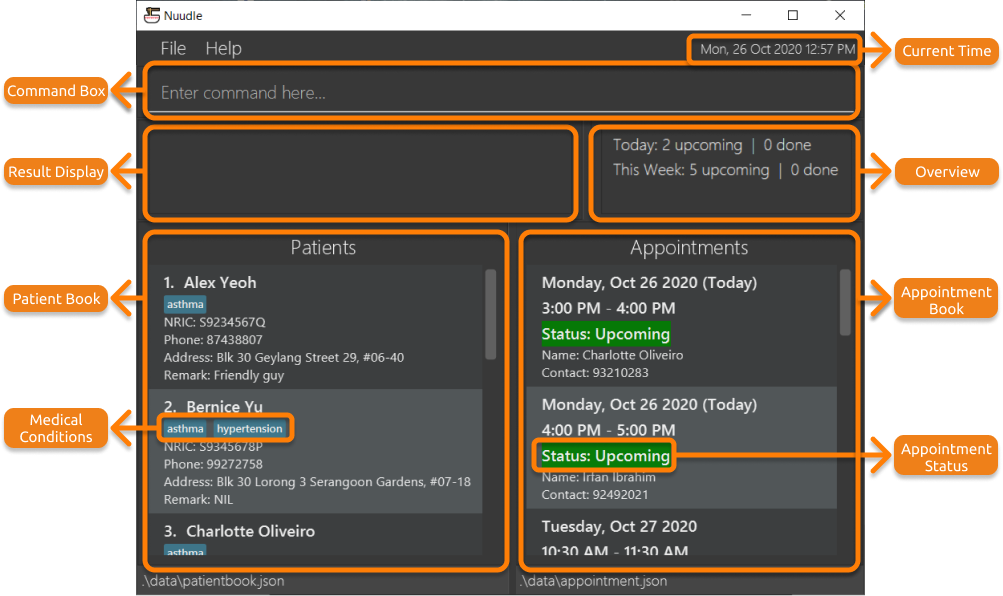
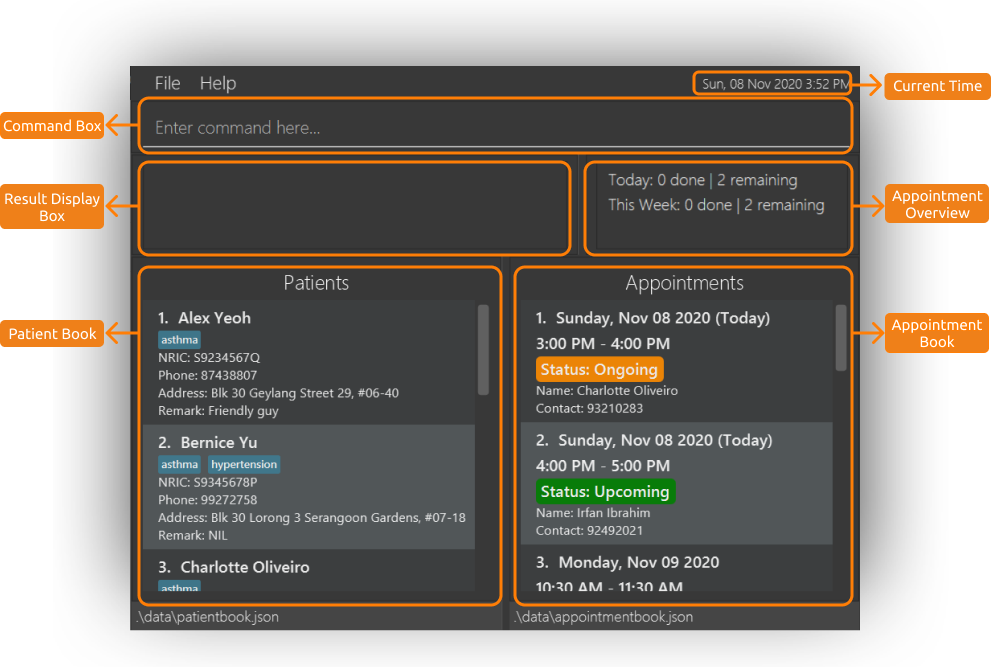
Add quick start and layout intro

diff --git a/docs/UserGuide.md b/docs/UserGuide.md
@@ -52,32 +52,89 @@ Follow these steps to get you started on Nuudle:
 
 ### Using Nuudle
 
- `interface`
+Having downloaded the Nuudle application, allow us to walk you through the layout of Nuudle.
+
+![UiMarkUp](images/UiMarkup.png)
+
+The layout of Nuudle can be divided into 2 main areas:
+1. A command execution area
+2. A main viewing area
+
+#### Executing command
+
+The command execution area consists of the **Command Box** and the **Result Display Box**.
+
+The **Command Box** is the area where you can type in your command and subsequently execute it by pressing <kbd>Enter</kbd>.
+The result from the execution will then be displayed on the **Result Display Box**.
+
+To get you started, here are some sample commands that you can try out:
+
+1. **`help`** : Shows the help window. 
+
+1. **`list`** : Lists all patients.
+
+1. **`add`**` n/John Doe i/S9730284G p/98765432 a/John street, block 123, #01-01` : Adds a patient named `John Doe` to the Patient Book.
+
+1. **`assign`**` 1 d/Tomorrow t/8.30am dur/30` : Creates an appointment for the 1st patient in the patient list for tomorrow 8.30am to 9am, assuming that the time slot is free.
+
+1. **`view`**` d/Tomorrow` : Displays all appointment happening tomorrow.
+
+1. **`cancel`**` 1` : Cancels the first appointment in the displayed appointment list.
+
+1. **`clear`** : Deletes all patients and appointments.
+
+1. **`exit`** : Exits the app.
+
+To learn more about the various commands used in Nuudle, head down to our [Commands](#commands) section.
+Alternatively, you can visit our [Command Summary](#command-summary) section to get a quick overview of Nuudle's commands.
+
+#### Viewing the data
+
+The main viewing area consists of the **Patient Book**, the **Appointment Book** and the **Appointment Overview**.
+
+* The **Patient Book** contains information about the patients stored in Nuudle. Here we take a look at an entry in the Patient Book.
+  ![PatientCard](images/PatientCard.png)
+  * The **Patient Index** is a numbering system used in the Patient Book, which allows you to easily reference the patient by using the index shown.<br>
+  Throughout the document and the application, we use the term `PATIENT_INDEX` to refer to this Patient Index.
+    
+  * The **Medical Condition** here is a tag that help nurses easily identify any identified allergy, illness and more.<br>
+  This medical condition can be added as a tag when [adding a new patient](#adding-a-patient--add) or by [editing an existing patient](#editing-a-patient--edit).
+    
+  * The **Patient Details** are neatly displayed at the bottom for you to easily check and identify a patient.
+
+
+* The **Appointment Book** contains details about the appointments created by Nuudle. Here we take a look at a single entry in the Appointment Book 
+![AppointmentCard](images/AppointmentCard.png)
+  * Similar to the Patient Index, the **Appointment Index** is a numbering system used in the Appointment Book.<br>
+  We use the term `APPT_INDEX` to refer to this Appointment Index. 
+
+  * Another noteworthy appointment detail is the **Appointment Status**. There are four status type used in Nuudle and the meaning of each status are shown in the table below
+    
+  **Appointment Status** | **Meaning**
+  :---------------:|:----------------
+  ![StatusDone](images/StatusDone.png) | A completed appointment that is marked as done using the `done` command
+  ![StatusUpcoming](images/StatusUpcoming.png) | An uncompleted appointment that will be happening in the future.
+  ![StatusOngoing](images/StatusOngoing.png) | An appointment that is currently ongoing but is still uncompleted.
+  ![StatusExpired](images/StatusExpired.png) | An appointment that has already passed but is still uncompleted.
+
+  * The **Patient Details** provides the necessary information about the patient, namely the name and the contact number.<br>
+  This allows you to easily keep track of who will be coming for the appointment and also call up the patient if necessary. 
+
+* The **Appointment Overview** gives a simple overview of the appointments stored in Nuudle.<br>
+  ![AppointmentOverview](images/AppointmentOverview.png)
+  With it, you can:
+  * keep track of the total number of expected appointment for the day.
+  * stay updated on the remaining number of appointments to be completed for the day.
+  * get an estimate on how busy the clinic will be for the week
+
 
 1. Type the command in the command box and press Enter to execute it. e.g. typing **`help`** and pressing Enter will open the help window.<br>
    Some example commands you can try :
 
-   1. **`list`** : Lists all patients.
-
-   1. **`add`**` n/John Doe i/S9730284G p/98765432 a/John street, block 123, #01-01` : Adds a patient named `John Doe` to the Patient Book.
-
-   1. **`edit`**` 1 n/Betsy Crower p/91234567 a/College Avenue 8` : Edits the name, phone number, and address of the 1st patient in the list to be `Betsy`, `91234567`, and `College Avenue 8` respectively.
-
-   1. **`find`**` n/John p/91238765 i/S9234567Q` : Finds the patients whose name contains `John`, or whose phone number is `912348765`, or whose NRIC number is `S9234567Q`.
-
-   1. **`avail`**` d/Tomorrow` : Gets all available time slots for tomorrow.
-
-   1. **`assign`**` 1 d/Tomorrow t/8.30am dur/30` : Creates an appointment for the 1st patient in the patient list for tomorrow 8.30am to 9am, assuming that the time slot is free.
-
-   1. **`view`**` d/Tomorrow` : Displays all appointment happening tomorrow.
-
-   1. **`cancel`**` 1` : Cancels the first appointment in the displayed appointment list, which is also the first appointment happening tomorrow.
-
-   1. **`clear`** : Deletes all patients and appointments.
-
-   1. **`exit`** : Exits the app.
-
 1. Refer to the [Features](#commands) below for details of each command.
+
+--------------------------------------------------------------------------------------------------------------------
+
 
 --------------------------------------------------------------------------------------------------------------------
 
@@ -127,7 +184,7 @@ This section introduces the ...
 
 #### Viewing help : `help`
 
-Shows a message with the commonly used commands, and the link to access the User Guide.
+Opens a new window which shows the commonly used commands, and a link to access the User Guide.
 
 ![Help Message](images/helpMessage.png)
 
@@ -244,13 +301,13 @@ By pressing the <kbd>↑</kbd> and <kbd>↓</kbd> arrow keys in the command box,
 
 <div markdown="span" class="alert alert-primary">
 
-:bulb: **Tip:** If you accidentally mistyped a command and executed it, you can follow the 3 simple steps below:<br>
+:bulb: **Tip:** You can use this feature together with `undo` command to correct a wrongly executed command. The steps below illustrate how this correction can be done:<br>
 
 1. Use the `undo` command to first reverse the previous command execution.<br>
 
 2. Next, use the <kbd>↑</kbd> arrow key in the command box to retrieve the original command.<br>
 
-3. You can then correct the original command and execute it by pressing the <kbd>Enter</kbd> key.<br>
+3. You can then edit the original command and execute it by pressing the <kbd>Enter</kbd> key.<br>
 
 <br>
 With this feature, it saves you the hassle of having to retype the whole command again!
@@ -315,8 +372,8 @@ Step-by-step illustration:<br>
 1. Suppose a patient, Charlotte, changed her phone number from `84812305` to `91234567`, simply type `edit 3 p/91234567` in the command box and press <kbd>Enter<kbd>.<br>
 ![EditCommand1](images/EditCommand1.png)
 
-2. Charlotte's phone number is updated and the change is reflected in the relevant patient and appointment cards.
-The particulars of the edited patient is also displayed in the result display box.<br>
+2. Charlotte's phone number is now updated and the change is also reflected in the relevant appointments.
+The particulars of the edited patient is displayed in the result display box.<br>
 ![EditCommand2](images/EditCommand2.png)
 
 #### Deleting a patient : `delete`
@@ -553,7 +610,6 @@ Action | Format, Examples
 **Redo** | `redo`
 **Help** | `help`
 **Exit** | `exit`
-
 
 --------------------------------------------------------------------------------------------------------------------
 
